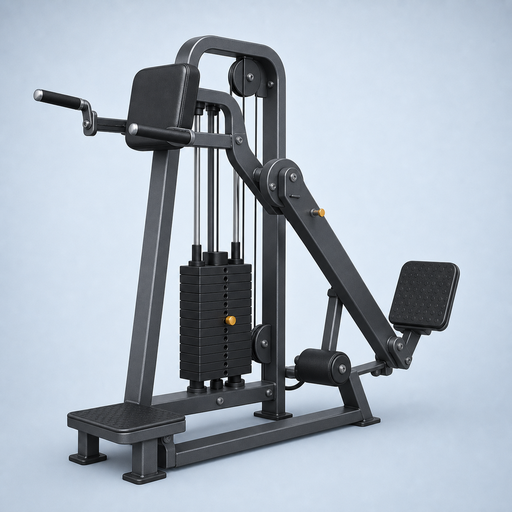
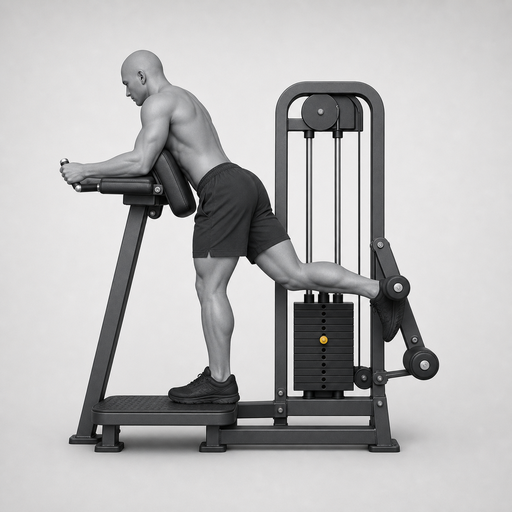
Refresh machine images and remove shoulder press

diff --git a/src/machineImages.ts b/src/machineImages.ts
@@ -17,7 +17,6 @@ const machineImagesById: Partial<Record<string, ImageSourcePropType>> = {
   'standard-pec-deck': require('../assets/machines/pec-deck.png'),
   'standard-seated-leg-curl': require('../assets/machines/seated-leg-curl.png'),
   'standard-seated-row': require('../assets/machines/seated-row.png'),
-  'standard-shoulder-press': require('../assets/machines/shoulder-press.png'),
 };
 
 export function getMachineImage(machineId: string): ImageSourcePropType | undefined {

diff --git a/PROJECT_STATUS.md b/PROJECT_STATUS.md
@@ -11,7 +11,7 @@ The initial app shell is in place with a compact header, safe-area handling, and
 - Machines
 - Workouts
 
-The Machines tab supports list, search, add, edit, and delete. Machine data now loads from Supabase through a small service layer and TanStack Query. The standard machine catalog currently contains 17 machines.
+The Machines tab supports list, search, add, edit, and delete. Machine data now loads from Supabase through a small service layer and TanStack Query. The standard machine catalog currently contains 16 machines.
 
 The Workouts tab starts and edits factual workout logs for the selected local phone user. A workout contains exercises selected from the Machines list, and each exercise contains individually entered sets with weight, reps, and an optional set note. Workout data now loads from Supabase through a small service layer and TanStack Query.
 
@@ -27,6 +27,41 @@ The selected user is stored locally on the phone with AsyncStorage. Machines sta
 User-facing app text is centralized in `src/strings.ts`.
 
 ## Last Completed Step
+
+Redrew the glute kickback machine image.
+
+Details:
+
+- Generated a clearer reference image for `standard-glute-kickback`.
+- Replaced `assets/machines/glute-kickback.png` with a 512x512 optimized PNG showing the torso support and rear kickback roller in the same exercise plane.
+- Kept the existing machine ID and image mapping unchanged.
+- TypeScript and test checks pass after replacing the image asset.
+
+Previous step:
+
+Removed the shoulder press standard machine.
+
+Details:
+
+- Removed `standard-shoulder-press` / shoulder press from the current Supabase catalog.
+- Added and applied `supabase/migrations/20260630173000_gymbro_remove_shoulder_press.sql`.
+- Removed the same machine from the initial schema seed.
+- Removed its machine image mapping and unused PNG asset.
+- Existing workout history remains readable because workout exercises keep machine name snapshots and deleted machine IDs are set to null.
+- TypeScript and test checks pass after removing the machine.
+
+Previous step:
+
+Redrew the seated row machine image.
+
+Details:
+
+- Generated a clearer reference image for `standard-seated-row`.
+- Replaced `assets/machines/seated-row.png` with the new 512x512 optimized PNG.
+- Kept the existing machine ID and image mapping unchanged.
+- TypeScript and test checks pass after replacing the image asset.
+
+Previous step:
 
 Removed selected standard machines.
 